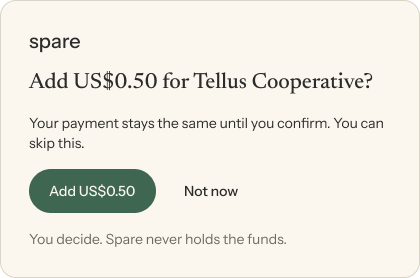
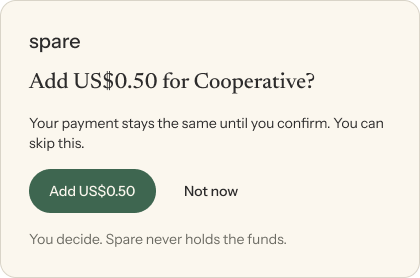
docs: update confirmation modal image in README

Changed region(s): [[0.4333, 0.259, 0.8976, 0.3453]]

diff --git a/README.md b/README.md
@@ -41,7 +41,7 @@ Spare is that missing package. Before the user signs, your app asks **"Add US$0.
 ## How it works
 
 <p align="center">
-  <img src="docs/assets/confirmation-modal.png" width="420" alt="Spare confirmation modal: Add US$0.50 for Tellus Cooperative? with Add US$0.50 and Not now buttons">
+  <img src="docs/assets/confirmation-modal.png" width="420" alt="Spare confirmation modal: Add US$0.50 for Cooperative? with Add US$0.50 and Not now buttons">
 </p>
 
 | Transaction type | What Spare does | Signatures |
